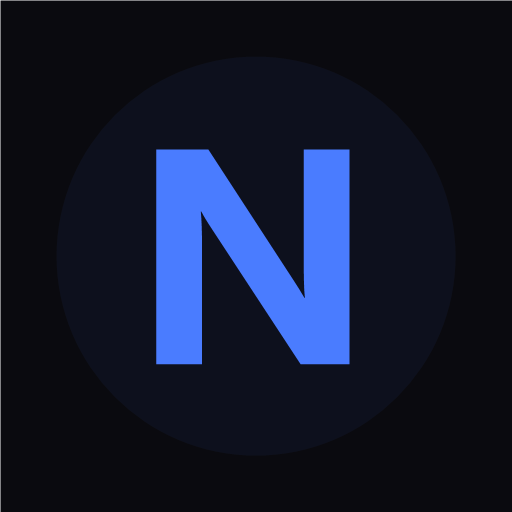
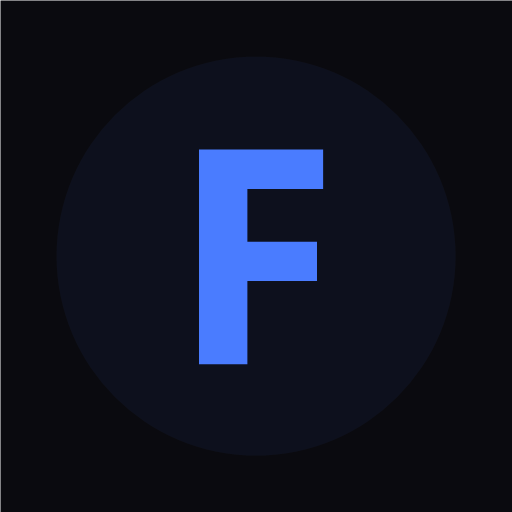
Rename app from NODO to Focus
Update all references: title, manifest, home header, settings,
icons (F instead of N), and service worker cache name.

Changed region(s): [[0.2812, 0.2812, 0.6875, 0.7188]]

diff --git a/index.html b/index.html
@@ -5,9 +5,9 @@
   <meta name="viewport" content="width=device-width, initial-scale=1.0, viewport-fit=cover, user-scalable=no">
   <meta name="apple-mobile-web-app-capable" content="yes">
   <meta name="apple-mobile-web-app-status-bar-style" content="black-translucent">
-  <meta name="apple-mobile-web-app-title" content="NODO">
+  <meta name="apple-mobile-web-app-title" content="Focus">
   <meta name="theme-color" content="#0a0a0f">
-  <title>NODO</title>
+  <title>Focus</title>
   <link rel="manifest" href="manifest.json">
   <link rel="apple-touch-icon" sizes="180x180" href="icons/icon-180.png">
   <link rel="stylesheet" href="css/variables.css">

diff --git a/js/views/home.js b/js/views/home.js
@@ -6,7 +6,7 @@ export async function render(container) {
     <div class="view-container">
       <div class="view-header" style="display:flex;justify-content:space-between;align-items:flex-start">
         <div>
-          <h1 style="font-size:32px;letter-spacing:-1px">NODO</h1>
+          <h1 style="font-size:32px;letter-spacing:-1px">Focus</h1>
           <p id="home-greeting" style="font-size:var(--font-md);margin-top:6px">Il tuo hub personale</p>
         </div>
         <a href="#/settings" class="btn btn-ghost btn-icon" style="margin-top:4px;background:var(--bg-card);border:1px solid var(--border-light)">

diff --git a/js/views/settings.js b/js/views/settings.js
@@ -35,8 +35,8 @@ export async function render(container) {
 
       <div class="section-title">Info</div>
       <div class="card">
-        <div class="item-subtitle">NODO v0.1.0 — MVP</div>
-        <div class="item-subtitle" style="margin-top:4px">Hub personale intelligente</div>
+        <div class="item-subtitle">Focus v0.1.0</div>
+        <div class="item-subtitle" style="margin-top:4px">Il tuo hub personale intelligente</div>
       </div>
     </div>
   `;

diff --git a/sw.js b/sw.js
@@ -1,4 +1,4 @@
-const CACHE_NAME = 'nodo-v3';
+const CACHE_NAME = 'focus-v1';
 const ASSETS = [
   './',
   './index.html',
